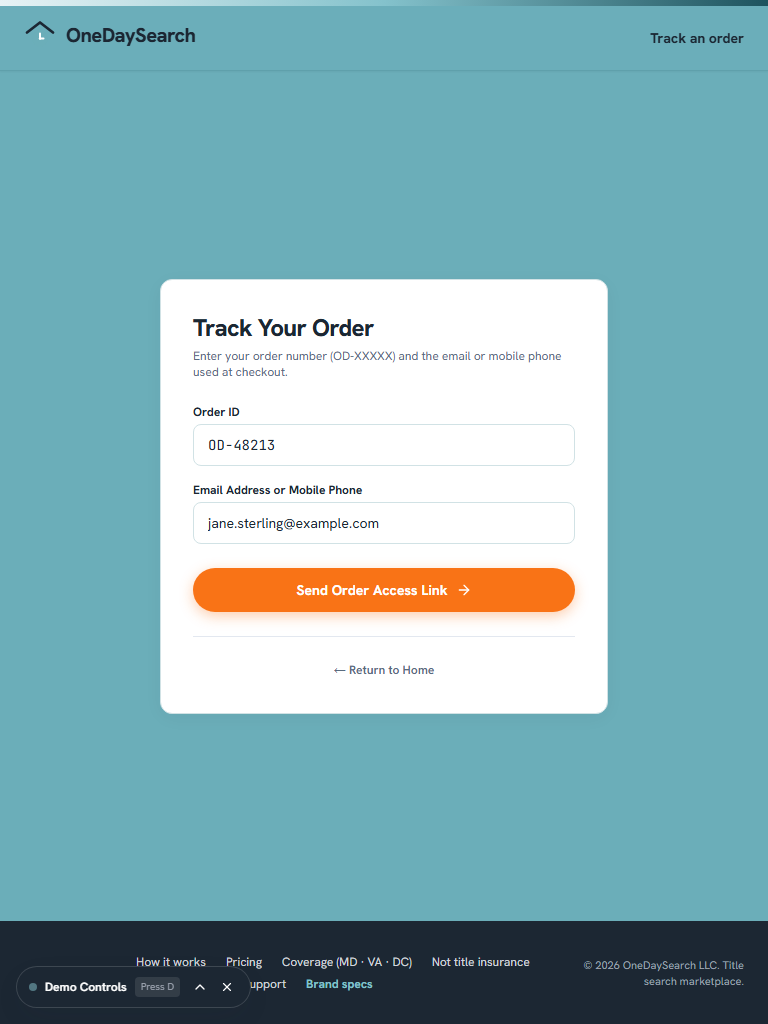
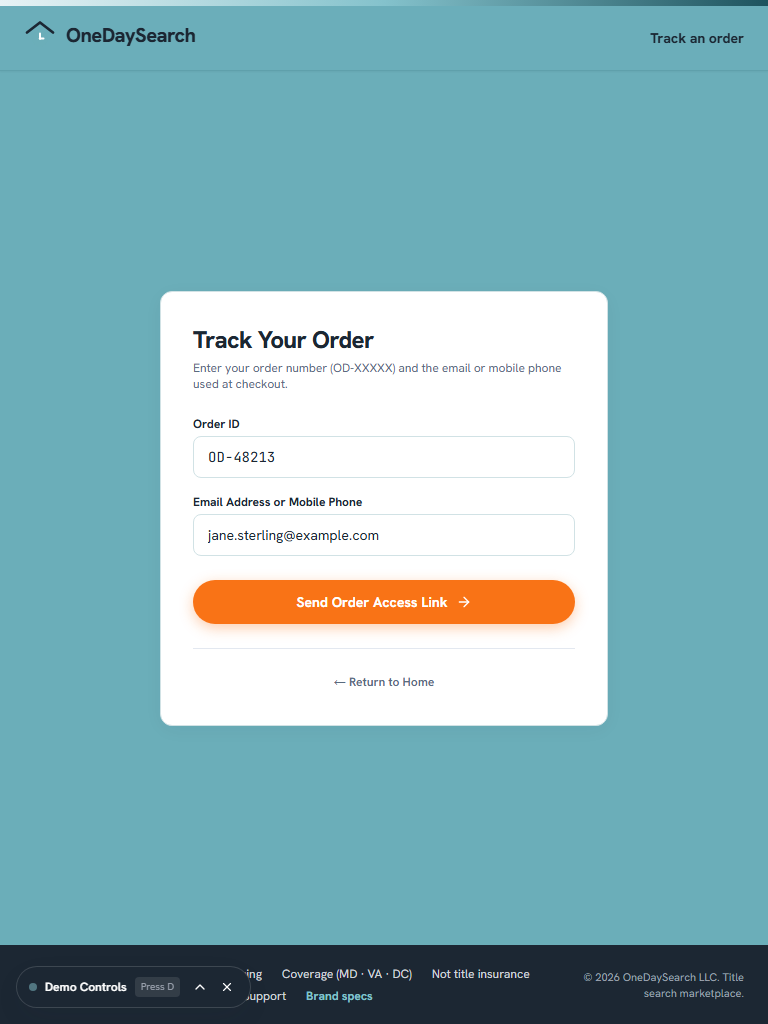
fix(home): restore prominent typography, full-size search bar, and 3 product cards matching client preference

Changed region(s): [[0.1875, 0.25, 0.8125, 0.7188], [0.0, 0.875, 1.0, 1.0]]

diff --git a/src/pages/HomePage.tsx b/src/pages/HomePage.tsx
@@ -83,18 +83,18 @@ export const HomePage: React.FC = () => {
 
   return (
     <div
-      className={`relative flex-1 flex flex-col items-center justify-center px-4 sm:px-6 py-2 sm:py-4 overflow-hidden ${
+      className={`relative flex-1 flex flex-col items-center justify-center px-4 sm:px-6 py-3 sm:py-5 overflow-hidden ${
         isGreen ? 'bg-vibrant-teal-canvas' : ''
       }`}
     >
       <div className="w-full max-w-2xl flex flex-col items-center text-center my-auto">
         {/* Brand Logo */}
-        <div className="mb-2 sm:mb-3">
+        <div className="mb-3 sm:mb-4">
           <Logo
             direction={logoDirection}
             variant="light"
             layout="stacked"
-            size="md"
+            size="lg"
             onClick={() => {
               setAddressInput('');
               setCoverageState('IDLE');
@@ -103,23 +103,23 @@ export const HomePage: React.FC = () => {
         </div>
 
         {/* High-Contrast Pill Badge */}
-        <div className="inline-flex items-center gap-1.5 px-3 py-1 rounded-full bg-white/95 text-[#1C2733] text-[11px] sm:text-xs font-bold mb-2.5 shadow-sm border border-white/80 backdrop-blur-sm">
+        <div className="inline-flex items-center gap-2 px-4 py-1.5 rounded-full bg-white/90 text-[#1C2733] text-xs font-bold mb-3 shadow-sm border border-white/80 backdrop-blur-sm">
           <span className="w-2 h-2 rounded-full bg-[#1E535E]" />
           <span>Title Search Marketplace · Maryland, Virginia &amp; DC</span>
         </div>
 
         {/* Client-Requested Tagline: Google Senior UI/UX Treatment */}
-        <div className="mb-3.5 sm:mb-4 max-w-xl px-2">
-          <h1 className="text-xl sm:text-2xl lg:text-[28px] font-extrabold text-[#1C2733] tracking-tight leading-tight">
+        <div className="mb-4 sm:mb-5 max-w-xl px-2">
+          <h1 className="text-2xl sm:text-3xl lg:text-4xl font-extrabold text-[#1C2733] tracking-tight leading-tight sm:leading-snug">
             Accuracy no human can match, in one-tenth the time.
           </h1>
-          <p className="text-xs sm:text-sm text-[#1C2733]/90 font-medium mt-1 leading-relaxed">
+          <p className="text-sm sm:text-base text-[#1C2733]/85 font-medium mt-1.5 leading-relaxed">
             An assistant searches. A real person approves every report.
           </p>
         </div>
 
         {/* Address Search Form: Floating White Pill */}
-        <div ref={containerRef} className="w-full max-w-xl relative mb-2">
+        <div ref={containerRef} className="w-full max-w-2xl relative mb-2.5">
           <form
             onSubmit={handleSearchSubmit}
             className="w-full flex items-center bg-white rounded-pill border border-white/80 shadow-[0_12px_35px_rgba(20,52,59,0.15)] hover:shadow-[0_16px_40px_rgba(20,52,59,0.2)] focus-within:ring-4 focus-within:ring-[#1E535E]/30 transition-all p-1.5"
@@ -138,14 +138,14 @@ export const HomePage: React.FC = () => {
               }}
               onFocus={() => setIsOpenDropdown(true)}
               placeholder="Enter property address in MD, VA, or DC..."
-              className="w-full py-2 px-1 text-sm sm:text-base text-[#1C2733] bg-transparent focus:outline-none placeholder:text-[#5A6B7F]"
+              className="w-full py-2.5 px-1 text-sm sm:text-base text-[#1C2733] bg-transparent focus:outline-none placeholder:text-[#5A6B7F]"
               autoComplete="off"
             />
 
             {/* High-Pop Orange CTA Button (Complementary contrast against blueish-green background) */}
             <button
               type="submit"
-              className="btn-cta px-6 sm:px-8 py-2 text-sm sm:text-base shrink-0"
+              className="btn-cta px-6 sm:px-8 py-2.5 text-sm sm:text-base shrink-0"
             >
               Search
             </button>
@@ -196,7 +196,7 @@ export const HomePage: React.FC = () => {
         </div>
 
         {/* Reassurance Subline */}
-        <div className="flex items-center justify-center gap-2 text-xs text-[#1C2733] mb-3.5 sm:mb-4 font-bold tracking-tight">
+        <div className="flex items-center justify-center gap-2 text-xs text-[#1C2733] mb-4 sm:mb-5 font-bold tracking-tight">
           <span>From <strong className="font-mono text-[#1C2733] font-extrabold underline">$229</strong></span>
           <span>·</span>
           <span>Guaranteed 24-hour turnaround</span>
@@ -206,14 +206,14 @@ export const HomePage: React.FC = () => {
 
         {/* S2 Address Check Transition / Results Box */}
         {coverageState === 'CHECKING' && (
-          <div className="w-full max-w-lg p-3 bg-white rounded-card border border-white/80 text-xs text-[#1C2733] font-semibold flex items-center justify-center gap-2.5 shadow-elevated mb-3">
+          <div className="w-full max-w-lg p-3 bg-white rounded-card border border-white/80 text-xs text-[#1C2733] font-semibold flex items-center justify-center gap-2.5 shadow-elevated mb-4">
             <span className="w-2.5 h-2.5 rounded-full bg-[#1E535E]" />
             <span>Checking county land records coverage...</span>
           </div>
         )}
 
         {coverageState === 'COVERED' && (
-          <div className="w-full max-w-lg p-4 bg-white rounded-card border border-white/80 shadow-[0_16px_40px_rgba(20,52,59,0.18)] text-left animate-in slide-in-from-bottom-2 duration-150 mb-3">
+          <div className="w-full max-w-lg p-5 bg-white rounded-card border border-white/80 shadow-[0_16px_40px_rgba(20,52,59,0.18)] text-left animate-in slide-in-from-bottom-2 duration-150 mb-4">
             <div className="flex items-start gap-3">
               <CheckCircle2 className="w-5 h-5 text-[#1E535E] shrink-0 mt-0.5" />
               <div className="flex-1">
@@ -238,7 +238,7 @@ export const HomePage: React.FC = () => {
         )}
 
         {coverageState === 'OUT_OF_COVERAGE' && (
-          <div className="w-full max-w-lg p-4 bg-white rounded-card border border-white/80 shadow-[0_16px_40px_rgba(20,52,59,0.18)] text-left animate-in slide-in-from-bottom-2 duration-150 mb-3">
+          <div className="w-full max-w-lg p-5 bg-white rounded-card border border-white/80 shadow-[0_16px_40px_rgba(20,52,59,0.18)] text-left animate-in slide-in-from-bottom-2 duration-150 mb-4">
             <div className="flex items-start gap-3">
               <AlertCircle className="w-5 h-5 text-[#F97316] shrink-0 mt-0.5" />
               <div className="flex-1">
@@ -255,7 +255,7 @@ export const HomePage: React.FC = () => {
                       e.preventDefault();
                       if (waitlistEmail) setWaitlistSubmitted(true);
                     }}
-                    className="mt-3 flex items-center gap-2"
+                    className="mt-3.5 flex items-center gap-2"
                   >
                     <input
                       type="email"
@@ -283,27 +283,36 @@ export const HomePage: React.FC = () => {
           </div>
         )}
 
-        {/* 3 Real Product Pillars: Floating Pill Cluster (Fits in 100vh without vertical scroll) */}
-        <div className="flex flex-wrap items-center justify-center gap-2 sm:gap-2.5 w-full max-w-xl text-left">
-          <div className="flex items-center gap-2 px-3.5 py-1.5 rounded-full bg-white/95 border border-white/80 shadow-sm backdrop-blur-sm">
-            <Clock className="w-3.5 h-3.5 text-[#1E535E] shrink-0" />
-            <div className="text-[11px] font-bold text-[#1C2733]">
-              24h SLA Delivery <span className="font-normal text-[#5A6B7F]">· Strict ET Clock</span>
+        {/* 3 Real Product Pillars: Floating White Cards on Architectural Teal Canvas */}
+        <div className="grid grid-cols-1 sm:grid-cols-3 gap-3.5 sm:gap-4 w-full max-w-2xl mt-4 sm:mt-5 pt-3.5 sm:pt-4 border-t border-[#1C2733]/15 text-left">
+          <div className="p-3.5 sm:p-4 rounded-xl bg-white shadow-[0_10px_25px_rgba(20,52,59,0.12)] border border-white/80 hover:shadow-xl transition-all">
+            <div className="w-8 h-8 rounded-lg bg-[#E2EFF1] flex items-center justify-center mb-2">
+              <Clock className="w-4 h-4 text-[#1E535E]" />
             </div>
+            <h3 className="text-xs font-bold text-[#1C2733]">24-Hour SLA Delivery</h3>
+            <p className="text-[11px] text-[#5A6B7F] mt-1 leading-relaxed">
+              Guaranteed turnaround in Eastern Time. Search starts promptly upon dispatch.
+            </p>
           </div>
 
-          <div className="flex items-center gap-2 px-3.5 py-1.5 rounded-full bg-white/95 border border-white/80 shadow-sm backdrop-blur-sm">
-            <ShieldCheck className="w-3.5 h-3.5 text-[#1E535E] shrink-0" />
-            <div className="text-[11px] font-bold text-[#1C2733]">
-              Human Verified <span className="font-normal text-[#5A6B7F]">· $1M+ Insured Abstract</span>
+          <div className="p-3.5 sm:p-4 rounded-xl bg-white shadow-[0_10px_25px_rgba(20,52,59,0.12)] border border-white/80 hover:shadow-xl transition-all">
+            <div className="w-8 h-8 rounded-lg bg-[#E2EFF1] flex items-center justify-center mb-2">
+              <ShieldCheck className="w-4 h-4 text-[#1E535E]" />
             </div>
+            <h3 className="text-xs font-bold text-[#1C2733]">Human Verified Abstract</h3>
+            <p className="text-[11px] text-[#5A6B7F] mt-1 leading-relaxed">
+              Assisted research examined and certified by licensed, $1M+ E&amp;O insured abstractors.
+            </p>
           </div>
 
-          <div className="flex items-center gap-2 px-3.5 py-1.5 rounded-full bg-white/95 border border-white/80 shadow-sm backdrop-blur-sm">
-            <MapPin className="w-3.5 h-3.5 text-[#1E535E] shrink-0" />
-            <div className="text-[11px] font-bold text-[#1C2733]">
-              Courthouse Access <span className="font-normal text-[#5A6B7F]">· MD · VA · DC</span>
+          <div className="p-3.5 sm:p-4 rounded-xl bg-white shadow-[0_10px_25px_rgba(20,52,59,0.12)] border border-white/80 hover:shadow-xl transition-all">
+            <div className="w-8 h-8 rounded-lg bg-[#E2EFF1] flex items-center justify-center mb-2">
+              <MapPin className="w-4 h-4 text-[#1E535E]" />
             </div>
+            <h3 className="text-xs font-bold text-[#1C2733]">Regional Courthouse Access</h3>
+            <p className="text-[11px] text-[#5A6B7F] mt-1 leading-relaxed">
+              Direct coverage across all 24 Maryland counties, DC, and Northern/Central Virginia.
+            </p>
           </div>
         </div>
       </div>

diff --git a/src/components/layout/CustomerLayout.tsx b/src/components/layout/CustomerLayout.tsx
@@ -15,11 +15,7 @@ export const CustomerLayout: React.FC = () => {
 
   return (
     <div
-      className={`transition-colors duration-200 ${
-        isHomePage
-          ? 'h-screen max-h-screen flex flex-col justify-between overflow-x-hidden overflow-y-auto lg:overflow-hidden'
-          : 'min-h-screen flex flex-col'
-      } ${
+      className={`min-h-screen flex flex-col justify-between transition-colors duration-200 ${
         isGreenTheme
           ? 'bg-[#6BAEB9] text-[#1C2733]'
           : isDarkTheme
@@ -79,9 +75,7 @@ export const CustomerLayout: React.FC = () => {
 
       {/* Customer Footer */}
       <footer
-        className={`w-full text-xs transition-colors z-10 relative shrink-0 ${
-          isHomePage ? 'py-3 sm:py-4' : 'py-8'
-        } ${
+        className={`w-full text-xs transition-colors z-10 relative shrink-0 py-4 sm:py-5 ${
           isGreenTheme
             ? 'bg-[#1C2733] text-gray-300 border-t border-[#1C2733]'
             : isDarkTheme

diff --git a/scripts/capture-screenshots.js b/scripts/capture-screenshots.js
@@ -53,7 +53,17 @@ async function capture() {
 
       const filename = `${screen.name}-${vp.name}.png`;
       const filePath = path.join(outDir, filename);
-      await page.screenshot({ path: filePath, fullPage: false });
+      let attempts = 0;
+      while (attempts < 3) {
+        try {
+          await page.screenshot({ path: filePath, fullPage: false });
+          break;
+        } catch (err) {
+          attempts++;
+          await new Promise((r) => setTimeout(r, 200));
+          if (attempts >= 3) throw err;
+        }
+      }
       console.log(`Captured: ${filename}`);
     }
   }
